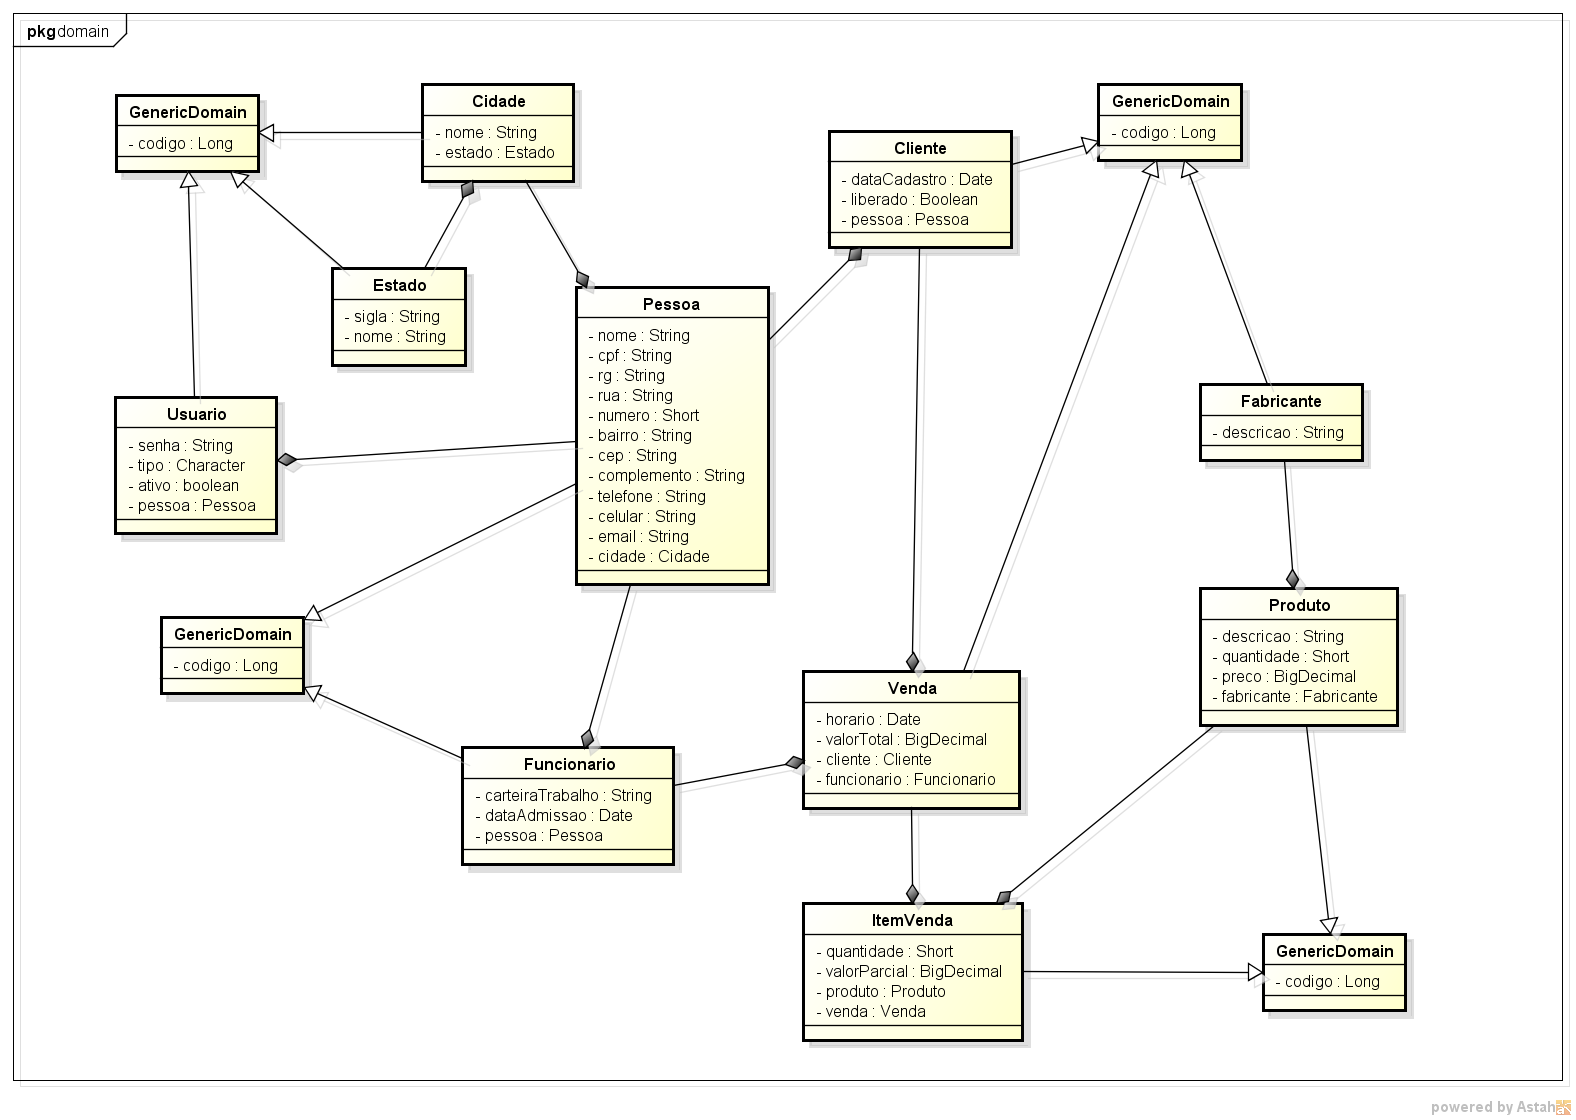
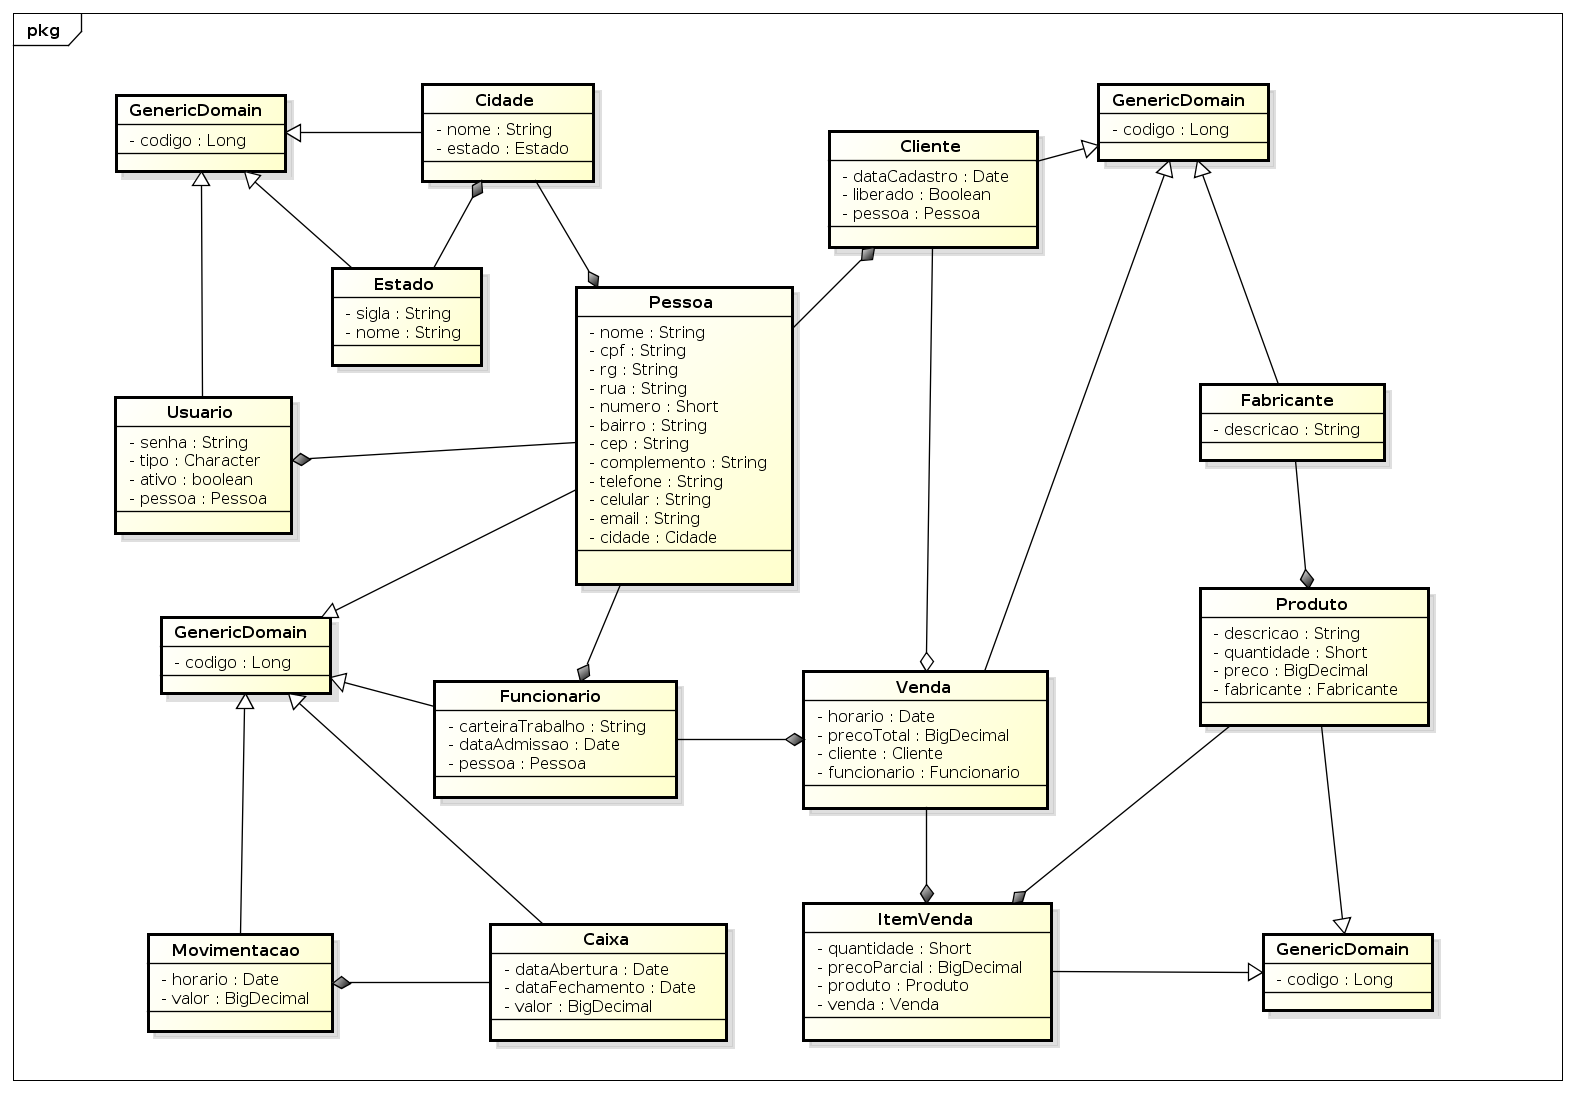
GenericDAO  e EstadoDAO.salvar
- Add GenericDAO
- Add EstadoDAO.salvar
- Alterado propriedade create para validate no hibernate.cfg
- Alterado GenericDomain chave IDENTIFY
 - Alterado UML

diff --git a/src/main/java/br/pro/delfino/drogaria/dao/GenericDAO.java b/src/main/java/br/pro/delfino/drogaria/dao/GenericDAO.java
@@ -1,0 +1,35 @@
+package br.pro.delfino.drogaria.dao;
+
+import java.lang.reflect.ParameterizedType;
+
+import org.hibernate.Session;
+import org.hibernate.Transaction;
+
+import br.pro.delfino.drogaria.util.HibernateUtil;
+
+public class GenericDAO<Entidade> {
+	
+	private Class<Entidade> classe;
+	
+	@SuppressWarnings("unchecked")
+	public GenericDAO() { 
+		this.classe = (Class<Entidade>) ((ParameterizedType) getClass().getGenericSuperclass()).getActualTypeArguments()[0];
+	}
+	
+	public void salvar(Entidade entidade) {
+		Session sessao = HibernateUtil.getFabricaDeSessoes().openSession(); // capturar sessao
+		Transaction transacao = null;
+		try {
+			transacao = sessao.beginTransaction(); // iniciar transacao
+			sessao.save(entidade); // salvar
+			transacao.commit(); // confirmar
+		} catch (RuntimeException e) {
+			if(transacao != null) {
+				transacao.rollback(); // desfazer
+			}
+			throw e;
+		} finally {
+			sessao.close();
+		}
+	}
+}

diff --git a/src/test/java/br/pro/delfino/drogaria/dao/EstadoDAOTest.java b/src/test/java/br/pro/delfino/drogaria/dao/EstadoDAOTest.java
@@ -1,0 +1,18 @@
+package br.pro.delfino.drogaria.dao;
+
+import org.junit.Test;
+
+import br.pro.delfino.drogaria.domain.Estado;
+
+public class EstadoDAOTest {
+
+	@Test
+	public void salvar() {
+		Estado estado = new Estado();
+		estado.setNome("Distrito Federal");
+		estado.setSigla("DF");
+		
+		EstadoDAO estadoDAO = new EstadoDAO();
+		estadoDAO.salvar(estado);
+	}
+}

diff --git a/src/main/java/br/pro/delfino/drogaria/domain/GenericDomain.java b/src/main/java/br/pro/delfino/drogaria/domain/GenericDomain.java
@@ -12,7 +12,7 @@ import javax.persistence.MappedSuperclass;
 public class GenericDomain implements Serializable {
 	
 	@Id
-	@GeneratedValue(strategy = GenerationType.AUTO)
+	@GeneratedValue(strategy = GenerationType.IDENTITY) // alterado de AUTO p/ IDENTIFY (AI)
 	private Long codigo;
 
 	public Long getCodigo() {

diff --git a/src/main/java/br/pro/delfino/drogaria/dao/EstadoDAO.java b/src/main/java/br/pro/delfino/drogaria/dao/EstadoDAO.java
@@ -1,0 +1,7 @@
+package br.pro.delfino.drogaria.dao;
+
+import br.pro.delfino.drogaria.domain.Estado;
+
+public class EstadoDAO extends GenericDAO<Estado> { // Sobrescrever metodo generico
+	
+}
